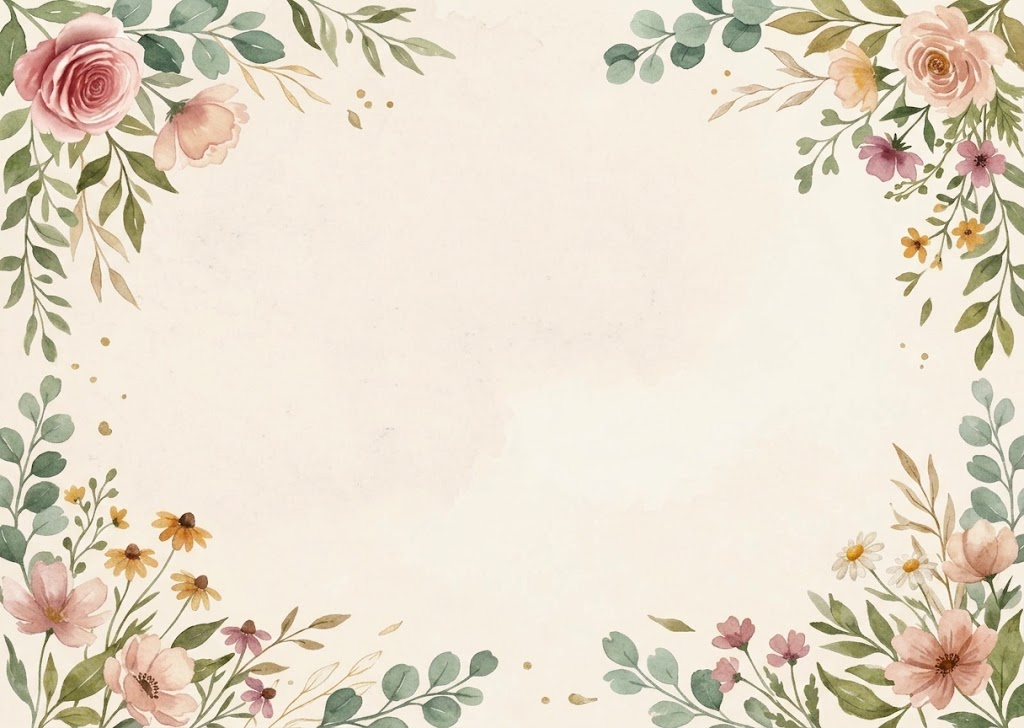
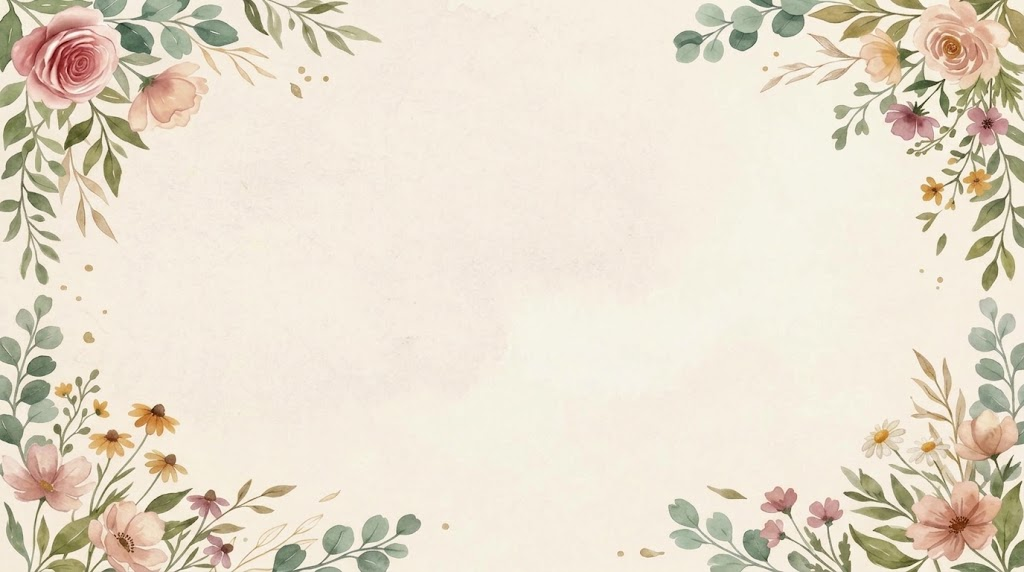
pf

Changed region(s): [[0.0, 0.0, 0.5, 1.0], [0.5312, 0.0, 1.0, 1.0], [0.875, 0.4755, 0.9062, 0.5052]]

diff --git a/src/components/wedding/GiftsSection.tsx b/src/components/wedding/GiftsSection.tsx
@@ -59,13 +59,17 @@ export function GiftsSection() {
 
   return (
     <section 
-      className="h-screen w-full snap-start overflow-y-auto relative bg-[#FAF5EC]"
+      className="h-screen w-full snap-start overflow-y-auto relative bg-[#FAF5EC] [&::-webkit-scrollbar]:hidden [-ms-overflow-style:none] [scrollbar-width:none]"
       style={{
-        backgroundImage: "url('/floral-gifts.jpg')",
+        backgroundImage: "url('/floral-gifts.jpg')", // Aponta para a imagem de alta qualidade
         backgroundSize: "cover",
         backgroundPosition: "center",
         backgroundAttachment: "fixed" 
-      }}>
+      }}
+    >
+      {/* Filtro ultra-leve para garantir que as flores não atrapalhem a leitura */}
+      <div className="absolute inset-0 bg-[#F5EDDC]/10 pointer-events-none"></div>
+
       {/* Container do conteúdo que permite a rolagem */}
       <div className="relative z-10 w-full flex flex-col items-center py-20 px-4 min-h-max">
         
@@ -109,7 +113,7 @@ export function GiftsSection() {
         {/* Rodapé da Secção */}
         <div className="mt-20 max-w-3xl text-center pb-12">
           <p className="text-xl md:text-2xl text-[#96691E] font-serif italic drop-shadow-sm font-medium">
-            “Mais do que presentes, vocês estarão fazendo parte do começo da nossa história. Obrigado por celebrar esse momento com a gente! ❤”
+            “Mais do que presentes, vocês estarão fazendo parte do começo da nossa história. Obrigado por celebrar esse momento com a gente! ❤”
           </p>
         </div>
 
